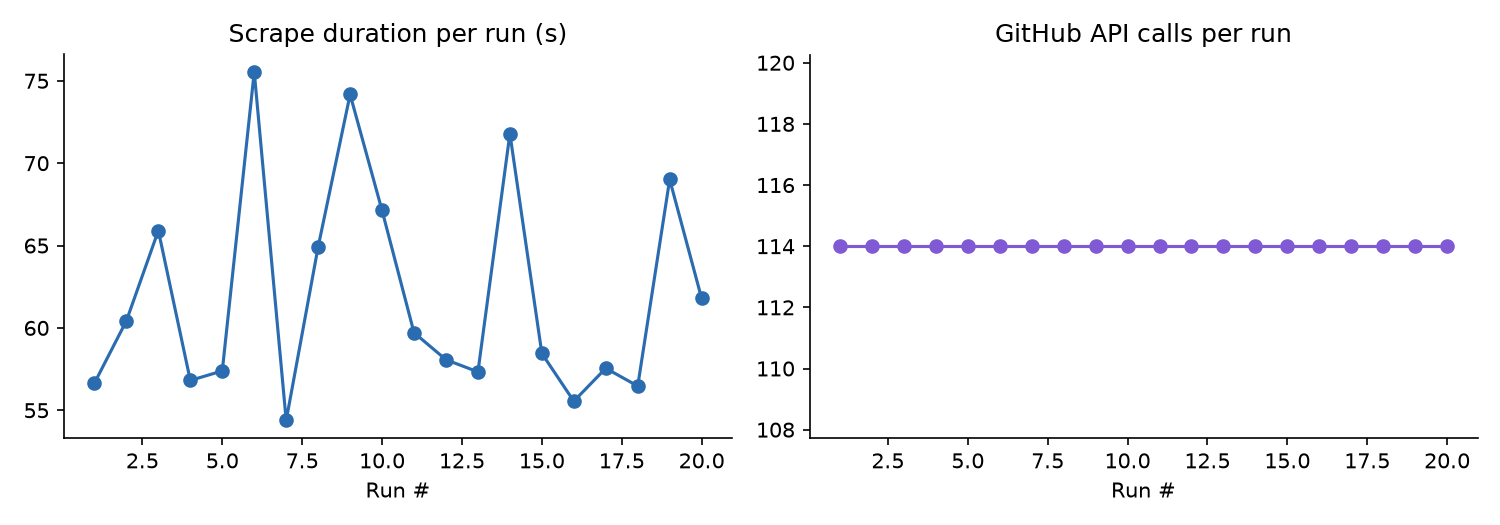
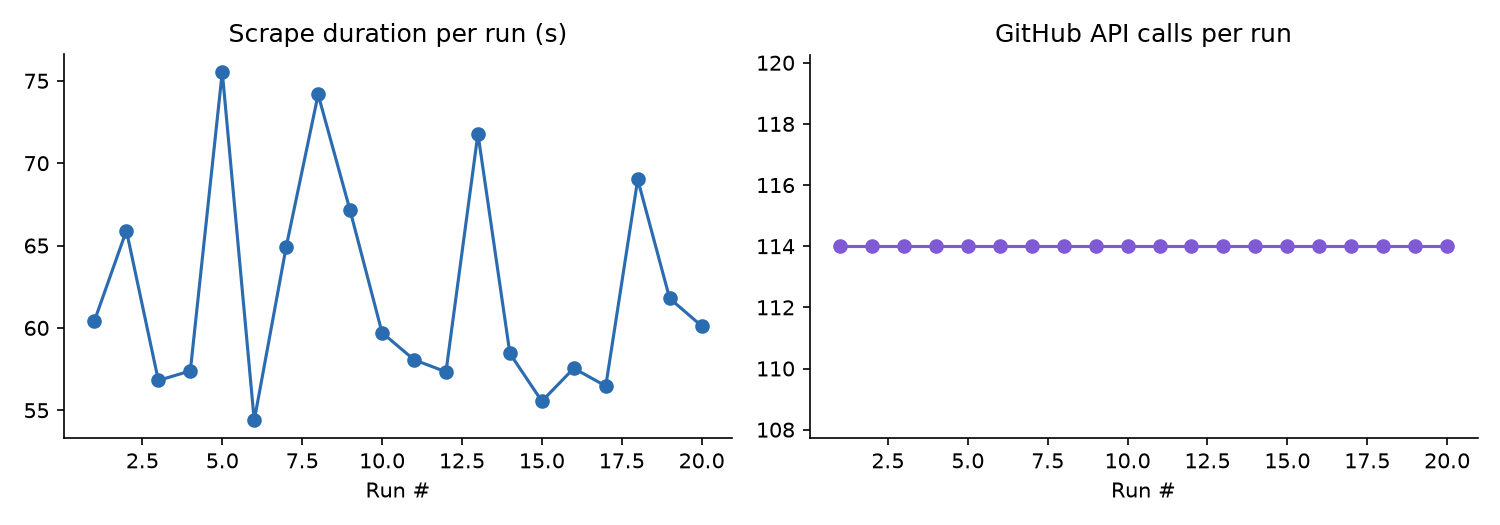
Weekly issue tracker refresh

diff --git a/README.md b/README.md
@@ -81,7 +81,7 @@ See [CONTRIBUTING.md](CONTRIBUTING.md) for the full contributor workflow — inc
 
 <!-- TRACKER:START -->
 
-_Last updated: 2026-08-23 06:16 UTC_
+_Last updated: 2026-08-23 07:03 UTC_
 
 _Tracking **18** upstream repos, **384** relevant open issues._
 
@@ -124,6 +124,7 @@ _Tracking **18** upstream repos, **384** relevant open issues._
 
 | Score | Issue | Labels | Comments | Updated |
 |---|---|---|---|---|
+| ★★☆☆☆ | [#12596](https://github.com/ansible-collections/community.general/issues/12596) ldap_attrs: add integration test coverage for INAPPROPRIATE_MATCHING fallback | — | 0 | 2026-08-23 |
 | ★★☆☆☆ | [#4053](https://github.com/ansible-collections/community.general/issues/4053) counter_enabled doesn't properly count tasks from import/include_tasks | bug, callback, plugins | 9 | 2026-08-23 |
 | ★★☆☆☆ | [#3513](https://github.com/ansible-collections/community.general/issues/3513) ZFS extra options with ":" is not allowed | bug, module, needs_info, plugins, os, packaging | 7 | 2026-08-22 |
 | ★★☆☆☆ | [#3236](https://github.com/ansible-collections/community.general/issues/3236) parted: status always changes when specific units are used with resize | bug, module, plugins, system | 5 | 2026-08-22 |
@@ -131,7 +132,6 @@ _Tracking **18** upstream repos, **384** relevant open issues._
 | ★★☆☆☆ | [#12576](https://github.com/ansible-collections/community.general/issues/12576) xenserver_guest: copying from existing VM fails | bug, module, plugins | 5 | 2026-08-20 |
 | ★☆☆☆☆ | [#1946](https://github.com/ansible-collections/community.general/issues/1946) linode_v4: support for nodebalancers and private IPs in the module planned? | feature, module, plugins, python3, cloud | 16 | 2026-08-22 |
 | ★☆☆☆☆ | [#3589](https://github.com/ansible-collections/community.general/issues/3589) twilio: error handling is vague and unhelpful | feature, module, plugins, notification | 3 | 2026-08-22 |
-| ★☆☆☆☆ | [#12580](https://github.com/ansible-collections/community.general/issues/12580) New module: Authselect - Manage authselect profiles and profile features | feature | 5 | 2026-08-18 |
 
 ### [ansible/ansible](https://github.com/ansible/ansible)
 
@@ -296,7 +296,7 @@ _Tracking **18** upstream repos, **384** relevant open issues._
 
 <!-- METRICS:START -->
 
-_Last run: 2026-08-23 06:15 UTC, took **61.8s**, **114** GitHub API calls, **4967/5000** rate limit remaining._
+_Last run: 2026-08-23 07:02 UTC, took **60.1s**, **114** GitHub API calls, **4853/5000** rate limit remaining._
 
 ![Scrape metrics trend](assets/metrics_trend.png)
 
